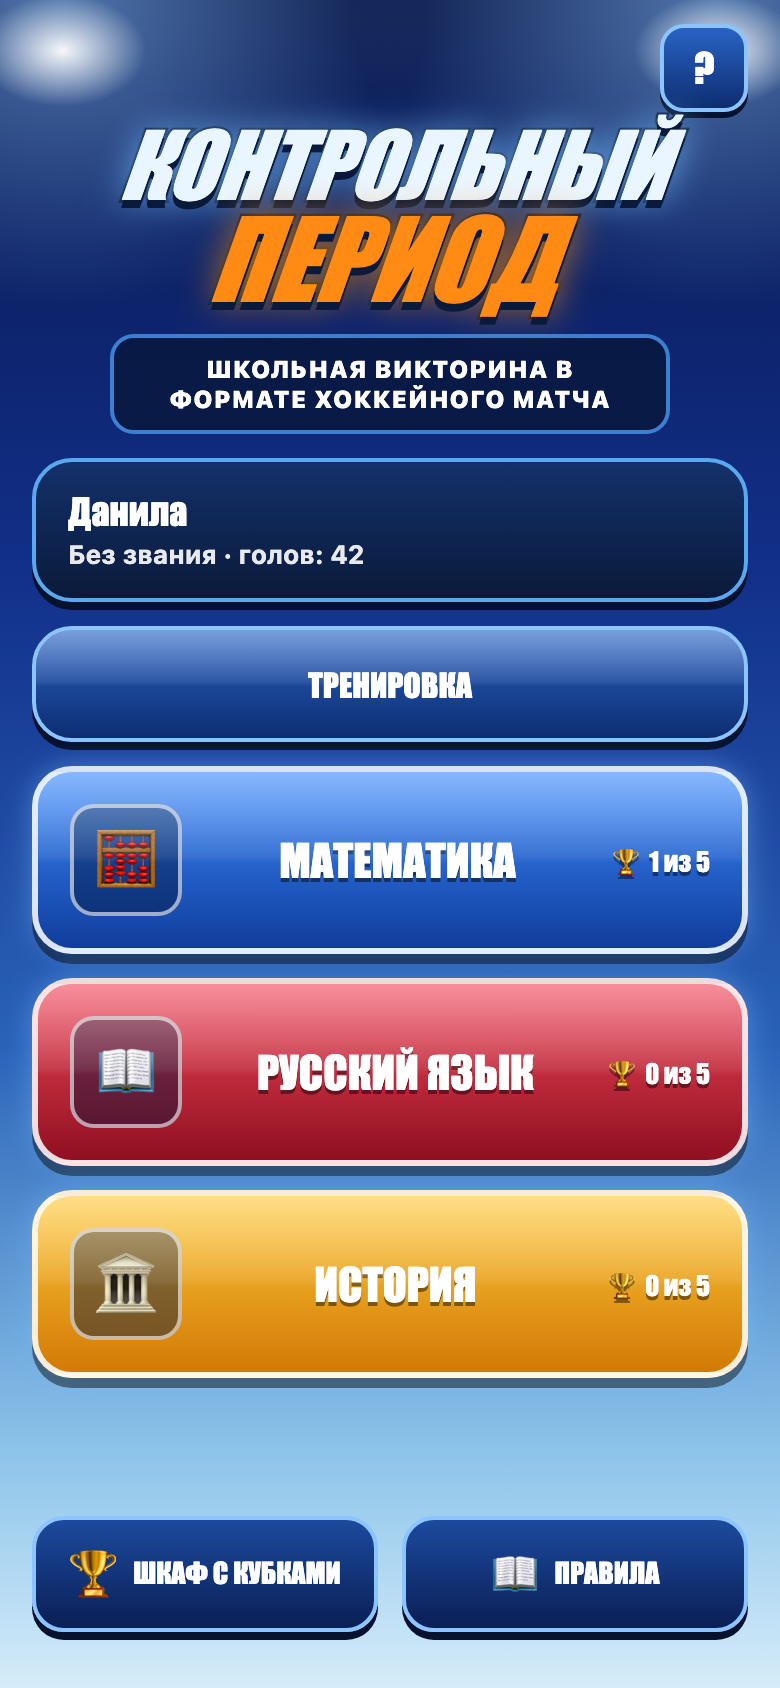
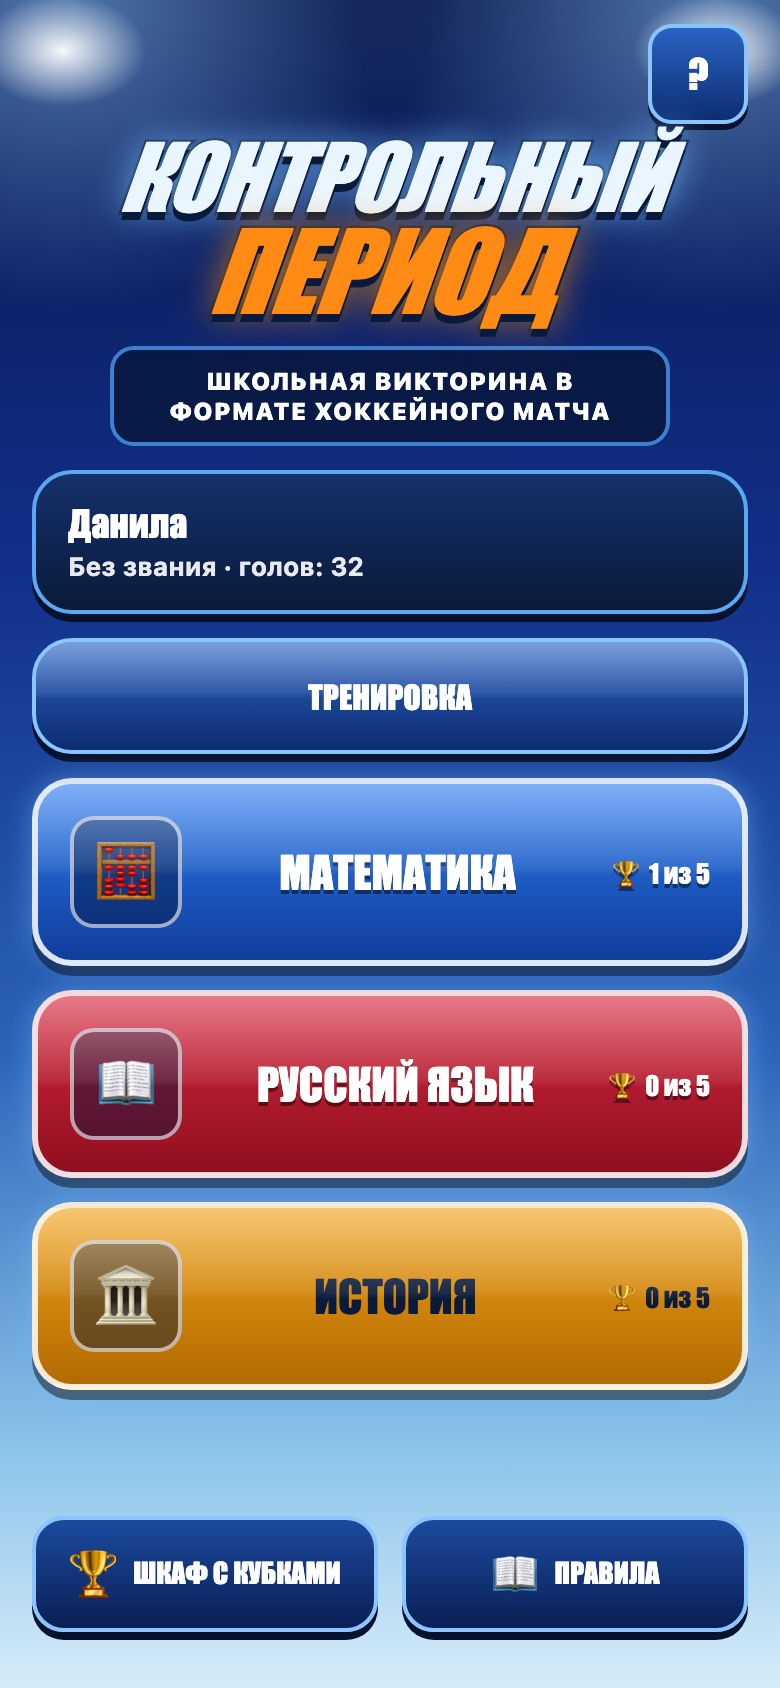
fix: оформление — стрелки, контраст, отметки ответов

Changed region(s): [[0.0308, 0.0, 0.9538, 0.8318], [0.7692, 0.4929, 0.9231, 0.5237], [0.9231, 0.2773, 0.9538, 0.3081]]

diff --git a/src/ui/styles.css b/src/ui/styles.css
@@ -3,8 +3,8 @@
   --ice: #eef6fb; --ice2: #d9ebf5; --line-red: #e0243a; --line-red-dark: #8f0f20; --line-blue: #1f6fe0;
   --navy: #0a1a3a; --navy2: #14316b; --led: #ffb52e; --green: #1fae5b; --text: #0a1a3a; --muted: #4d6785;
   --card: #f4faff; --card-edge: #5aa9f0; --wrong: #e0243a; --bg: #0b1f4d;
-  --subj-math: #1f6fe0; --subj-russian: #d7263d; --subj-history: #f0a21a;
-  --orange: #ff8a14; --orange-dark: #b24f00; --gold: #ffd54a;
+  --subj-math: #2f7df0; --subj-russian: #d7263d; --subj-history: #f0a21a;
+  --subj-math-dk: #0f3d9c; --subj-russian-dk: #8f0f20; --subj-history-dk: #b36a00; --orange: #ff8a14; --orange-dark: #b24f00; --gold: #ffd54a;
   --font-body: Nunito, system-ui, -apple-system, 'Segoe UI', sans-serif;
   --font-head: 'Russo One', Impact, system-ui, -apple-system, sans-serif;
   --radius: 20px; --radius-sm: 16px; --tap: 58px;
@@ -17,7 +17,7 @@ body { margin: 0; background: var(--bg); color: var(--text); font-family: var(--
 .screen { max-width: var(--max-w); margin: 0 auto; padding: 12px 16px 28px; display: flex; flex-direction: column; gap: 12px; min-height: 100vh; }
 .top { display: flex; align-items: center; gap: 10px; }
 .ttl { flex: 1; margin: 0; font-family: var(--font-head); font-size: 22px; font-weight: 400; color: var(--navy); }
-.back, .help, .back-gap { width: 44px; height: 44px; flex: none; }
+.back, .help, .back-gap { width: 50px; height: 50px; flex: none; }
 .back, .help { display: grid; place-items: center; border-radius: 50%; background: var(--card); border: 2px solid var(--navy);
   color: var(--navy); text-decoration: none; font-family: var(--font-head); font-size: 20px; }
 a { color: inherit; text-decoration: none; }
@@ -25,7 +25,6 @@ button { font: inherit; color: inherit; }
 .player { background: var(--navy); color: #fff; border-radius: var(--radius); padding: 14px 16px; display: flex; justify-content: space-between; align-items: center; gap: 12px; }
 .player b { font-family: var(--font-head); font-size: 18px; font-weight: 400; display: block; }
 .player span { font-size: 13px; opacity: .85; }
-.chip { background: var(--led); color: var(--navy); border-radius: 12px; padding: 10px 14px; font-weight: 900; min-height: 44px; display: grid; place-items: center; }
 .card, .row, .opp { display: flex; align-items: center; gap: 12px; background: var(--card); border-radius: var(--radius); padding: 14px 16px;
   box-shadow: var(--shadow-card); min-height: var(--tap); border: 3px solid transparent; width: 100%; text-align: left; }
 .card { justify-content: center; font-family: var(--font-head); font-size: 18px; }
@@ -108,10 +107,8 @@ body { color: #fff; min-height: 100vh;
 .ttl { color: #fff; text-shadow: 0 2px 0 #06122e; text-transform: uppercase; font-style: italic; }
 h1.ttl { font-size: 20px; text-align: center; background: linear-gradient(180deg, #1c4a9e, #0c2a66); border: 2px solid #8cc4ff; border-radius: 14px; padding: 8px 10px; box-shadow: 0 3px 0 #06122e; }
 .back, .help { background: linear-gradient(180deg, #2a63c4, #0d2d70); border: 2px solid #8cc4ff; color: #fff; border-radius: 12px; box-shadow: 0 3px 0 #06122e; }
-.back { font-family: var(--font-body); font-size: 34px; font-weight: 900; line-height: 1; padding-bottom: 4px; }
 .player { background: linear-gradient(180deg, #14316b, #0a1a3a); border: 2px solid #5aa9f0; box-shadow: 0 4px 0 #06122e; }
 .player span { opacity: .9; }
-.chip { background: linear-gradient(180deg, #ffd54a, #ff9a1a); color: var(--navy); border-radius: 12px; }
 
 /* Главная */
 .logo { text-align: center; font-family: var(--font-head); font-style: italic; text-transform: uppercase; line-height: .95; margin: -6px 0 0; transform: skewX(-6deg); }
@@ -124,9 +121,10 @@ h1.ttl { font-size: 20px; text-align: center; background: linear-gradient(180deg
 .subj { position: relative; overflow: hidden; min-height: 84px; font-size: 22px; text-transform: uppercase; border: 3px solid rgba(255, 255, 255, .85);
   box-shadow: 0 5px 0 rgba(0, 0, 0, .45), 0 0 14px rgba(120, 190, 255, .45); text-shadow: 0 2px 0 rgba(0, 0, 0, .45); }
 .subj::before, .card::before, .big::before, .ans::before { content: ''; position: absolute; inset: 0; background: var(--gloss); pointer-events: none; }
-.subj-math { background: linear-gradient(180deg, #3d8bff, #0f3d9c); }
-.subj-russian { background: linear-gradient(180deg, #f2495c, #8f0f20); }
-.subj-history { background: linear-gradient(180deg, #ffc93a, #d27a05); }
+.subj-math { background: linear-gradient(180deg, var(--subj-math), var(--subj-math-dk)); }
+.subj-russian { background: linear-gradient(180deg, var(--subj-russian), var(--subj-russian-dk)); }
+.subj-history { background: linear-gradient(180deg, var(--subj-history), var(--subj-history-dk)); color: var(--navy); text-shadow: none; }
+.subj-history .ico { background: rgba(255, 255, 255, .55); border-color: var(--navy); }
 .subj .ico { flex: none; width: 56px; height: 56px; display: grid; place-items: center; font-size: 30px; border-radius: 12px; background: rgba(0, 20, 60, .45); border: 2px solid rgba(255, 255, 255, .6); text-shadow: none; }
 .subj b { flex: 1; text-align: center; font-weight: 400; }
 .subj .cups { font-size: 13px; text-transform: none; white-space: nowrap; margin-left: 0; }
@@ -139,7 +137,7 @@ h1.ttl { font-size: 20px; text-align: center; background: linear-gradient(180deg
 .row, .opp { background: linear-gradient(135deg, #f7fcff 0, #cfe6f8 100%); color: var(--text); border: 3px solid var(--card-edge); box-shadow: var(--shadow-card); min-height: 76px; }
 .row b, .opp b { font-size: 17px; }
 .row span, .opp span { color: var(--muted); }
-.row::after { content: '›'; font-family: var(--font-head); font-size: 28px; color: var(--navy2); }
+.row::after { content: ''; width: 12px; height: 12px; flex: none; border-top: 4px solid var(--navy2); border-right: 4px solid var(--navy2); transform: rotate(45deg); margin: 0 6px 0 2px; }
 .row.locked::after { content: none; }
 .st { font-size: 12px; background: var(--navy); color: #fff !important; border-radius: 10px; padding: 5px 9px; text-transform: uppercase; white-space: nowrap; }
 .row .lock { font-size: 34px; order: 3; }
@@ -149,7 +147,7 @@ h1.ttl { font-size: 20px; text-align: center; background: linear-gradient(180deg
 .opp.won .st { background: var(--green); } .opp.next .st { background: var(--orange); }
 .locked { opacity: .8; filter: saturate(.5); }
 .big { position: relative; overflow: hidden; background: linear-gradient(180deg, #ffb13a, #ff7a0a); color: #fff; text-transform: uppercase; border: 3px solid #ffe08a;
-  text-shadow: 0 2px 0 rgba(120, 50, 0, .6); font-size: 24px; padding: 18px; }
+  color: var(--navy); text-shadow: 0 1px 0 rgba(255, 255, 255, .5); font-size: 24px; padding: 18px; }
 .soon { border-color: #8cc4ff; color: #cfe6ff; }
 .msg { background: rgba(8, 24, 64, .75); border-radius: var(--radius); }
 
@@ -194,3 +192,9 @@ h1.ttl { font-size: 20px; text-align: center; background: linear-gradient(180deg
 .parent th, .parent td { border-color: #c3d3e0; }
 .parent thead th { background: #d9ebf5; }
 .parent input { border-color: #c3d3e0; }
+
+.back::before { content: ''; width: 14px; height: 14px; border-left: 5px solid #fff; border-bottom: 5px solid #fff; transform: rotate(45deg); margin-left: 6px; }
+.ans.correct::after, .ans.wrong::after { position: absolute; right: 10px; top: 6px; width: 26px; height: 26px; border-radius: 50%; display: grid; place-items: center; font-size: 16px; font-weight: 900; background: #fff; text-shadow: none; }
+.ans.correct::after { content: '✓'; color: #0f8a43; }
+.ans.wrong::after { content: '✗'; color: #8f0f20; }
+.parent .msg { background: #eef6fb; color: #0d1b2e; }

diff --git a/src/ui/screens/Layout.tsx b/src/ui/screens/Layout.tsx
@@ -7,7 +7,7 @@ export function Screen(props: { title?: string; back?: string; help?: ScreenId; 
   return (
     <main class="screen">
       <header class="top">
-        {props.back ? <a class="back" href={props.back} aria-label="Назад">‹</a> : <span class="back-gap" />}
+        {props.back ? <a class="back" href={props.back} aria-label="Назад"></a> : <span class="back-gap" />}
         {props.title === '' ? <span class="ttl" /> : <h1 class="ttl">{props.title ?? APP_NAME}</h1>}
         {props.help ? <HelpButton screen={props.help} /> : <span class="back-gap" />}
       </header>

diff --git a/src/ui/screens/Home.tsx b/src/ui/screens/Home.tsx
@@ -8,7 +8,7 @@ export function Home() {
   const { content, progress } = useGame();
   return (
     <Screen title="" help="home">
-      <div class="logo" aria-label={APP_NAME}>
+      <div class="logo" role="heading" aria-level={1} aria-label={APP_NAME}>
         {APP_NAME.split(' ').map((w) => <span key={w}>{w}</span>)}
       </div>
       <p class="tagline">Школьная викторина в формате хоккейного матча</p>
